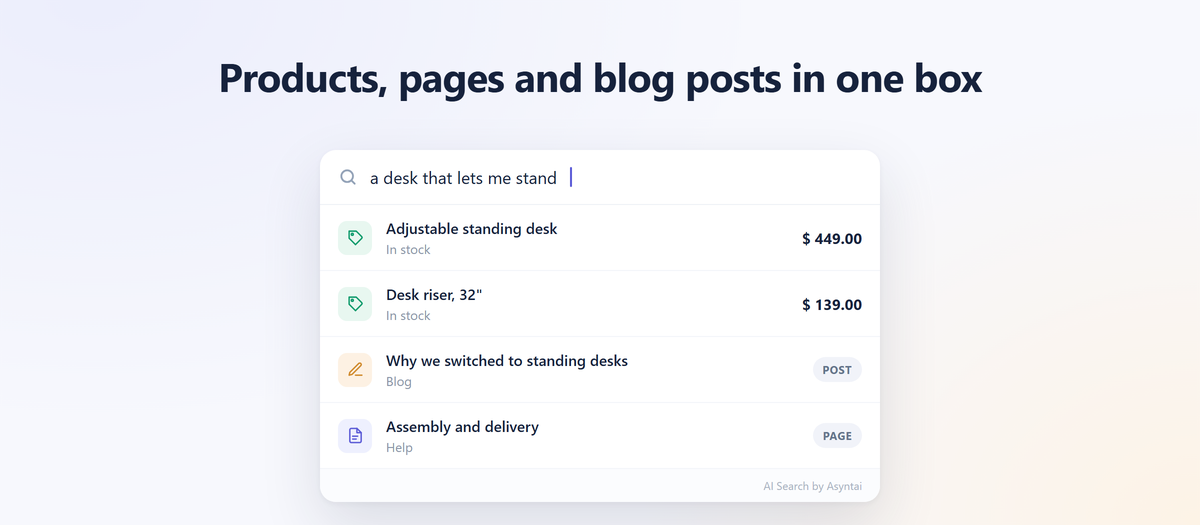
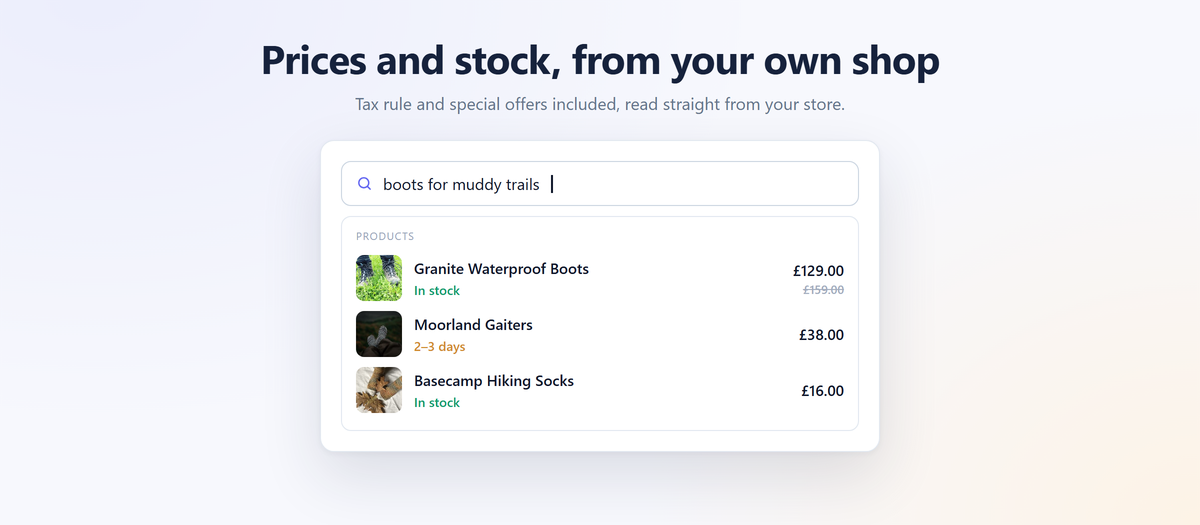
Listing images with product photos

diff --git a/asyntai_search/static/description/index.html b/asyntai_search/static/description/index.html
@@ -79,7 +79,7 @@
 <section class="oe_container">
     <div class="oe_row oe_spaced">
         <div class="oe_span12 text-center">
-            <img src="ai-search-for-odoo-3.png" alt="Products, pages and blog posts in one box" style="max-width: 100%; border-radius: 8px; box-shadow: 0 4px 12px rgba(0,0,0,0.15);"/>
+            <img src="ai-search-for-odoo-3.png" alt="Prices and stock, from your own shop" style="max-width: 100%; border-radius: 8px; box-shadow: 0 4px 12px rgba(0,0,0,0.15);"/>
         </div>
     </div>
 </section>
